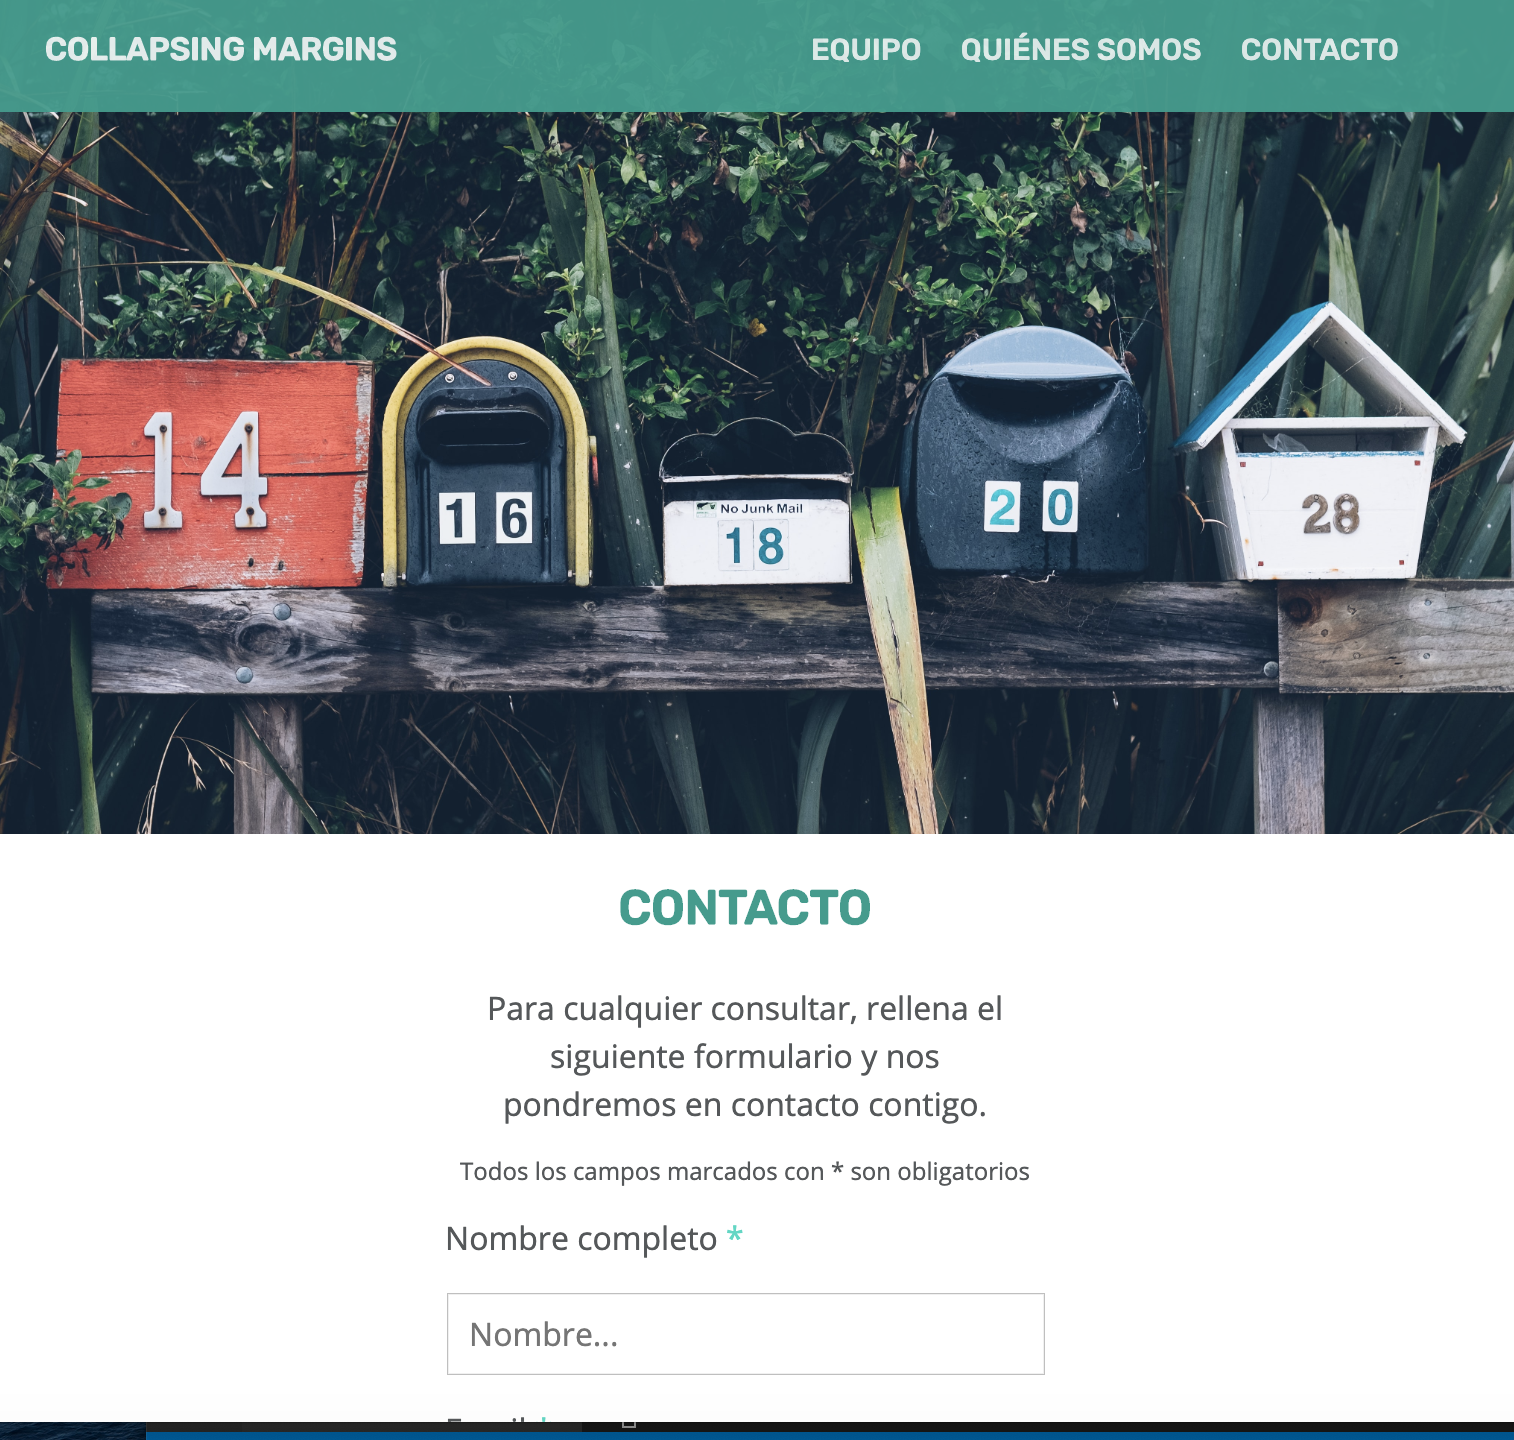
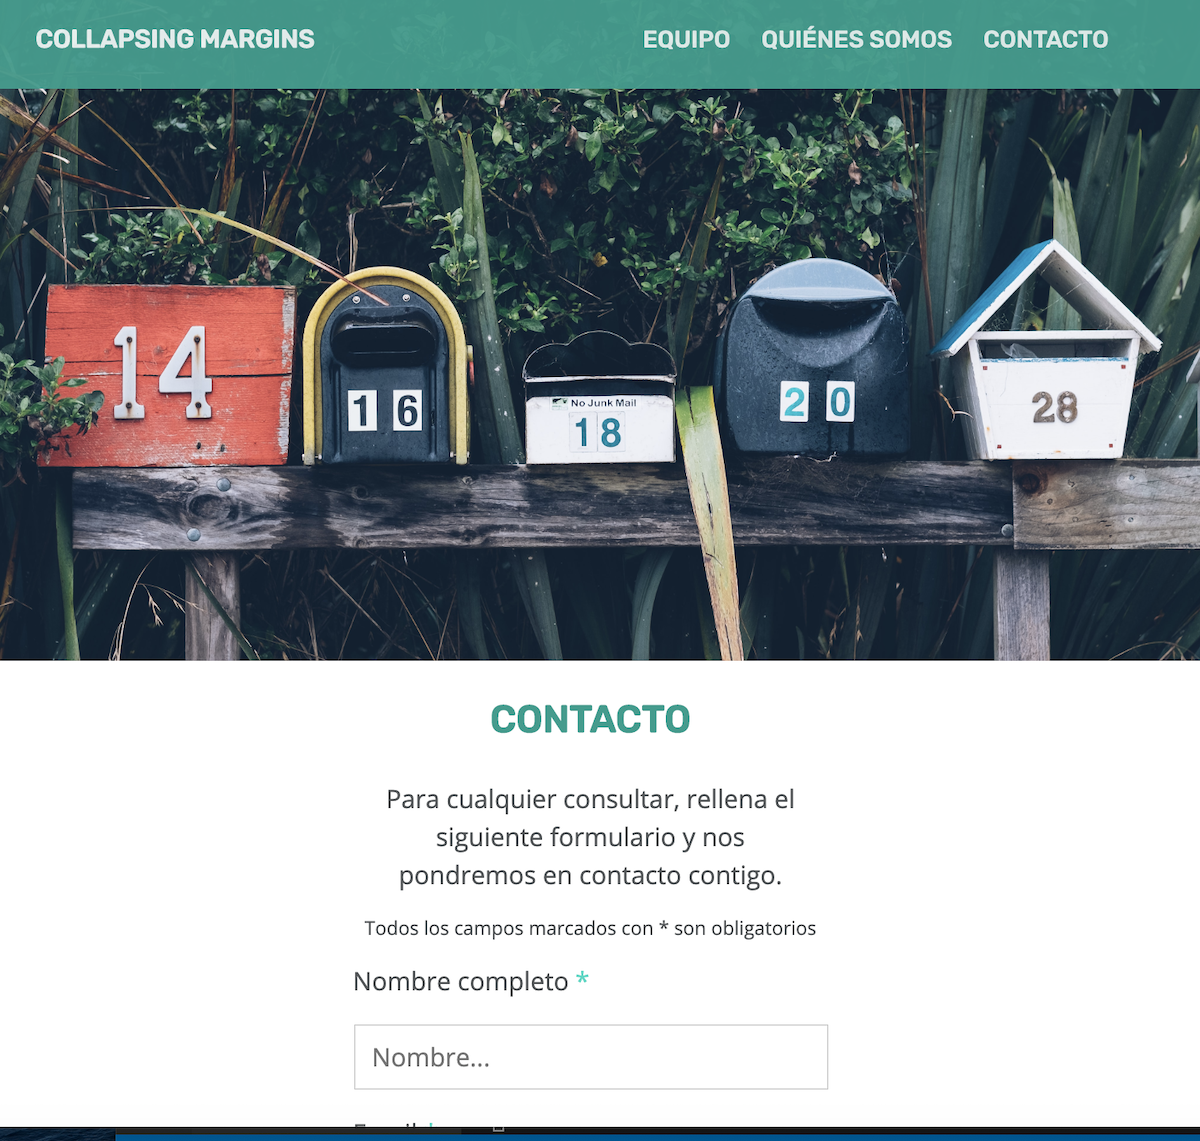
asterisk

Changed region(s): [[0.0, 0.9816, 0.4008, 1.0], [0.0925, 0.5521, 0.1233, 0.5828]]

diff --git a/_src/assets/scss/layouts/_contact.scss b/_src/assets/scss/layouts/_contact.scss
@@ -46,6 +46,10 @@
                     color: $bodyColor;
                     padding:0px;
                     width: 100%;
+
+                    .asterik {
+                        color:$subHeaderColor;
+                    }
                 }              
             }
 

diff --git a/public/assets/css/main.css b/public/assets/css/main.css
@@ -640,6 +640,10 @@ a {
   width: 100%;
 }
 
+.main-contact .container .footer-contact .asterik {
+  color: #14d9c4;
+}
+
 .form {
   font-family: "Open Sans", sans-serif;
   font-size: 16px;
